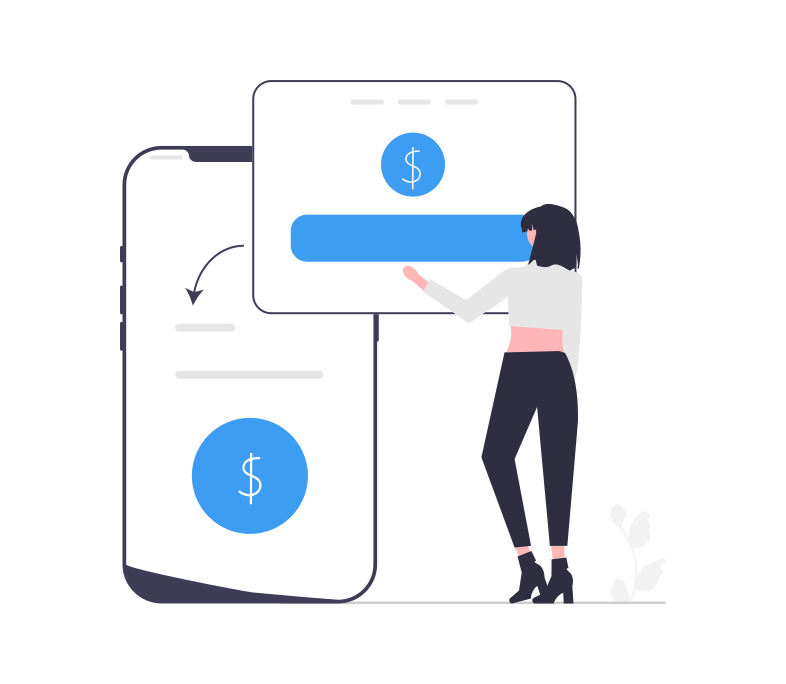
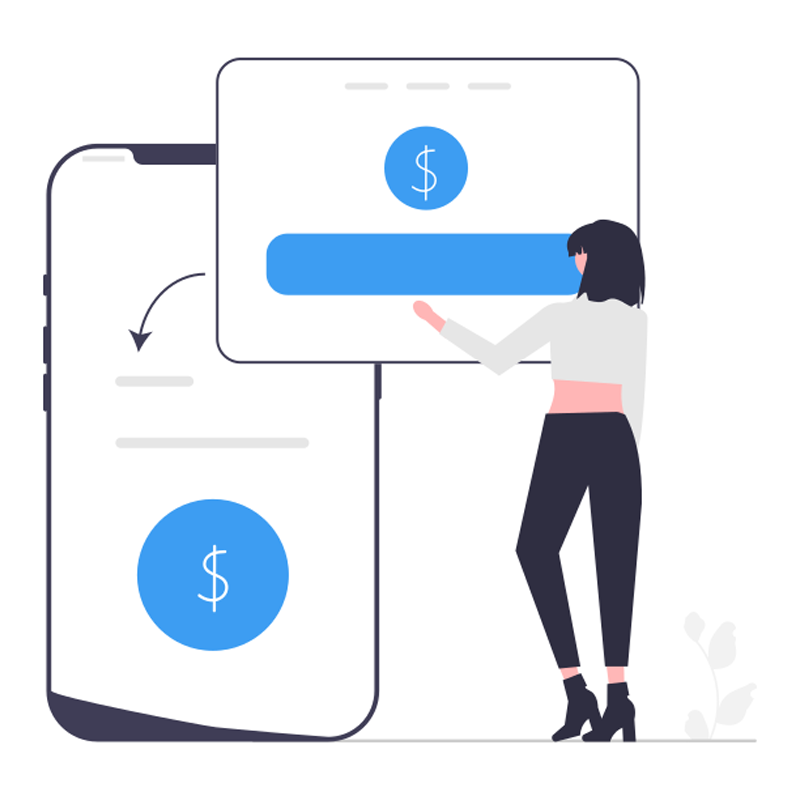
detalles mas tarjetas a medias

Changed region(s): [[0.0305, 0.0614, 0.9466, 0.9518], [0.3664, 0.5219, 0.4275, 0.5526], [0.7023, 0.1228, 0.7328, 0.1535]]

diff --git a/index.html b/index.html
@@ -40,80 +40,89 @@
 
     <!----- Grid con texto e imagen ----->
 
-    <div class="container-fluid">
-      <div class="row justify-content-md-center">
-        <div class="col col-lg-2">
+    <div class="container d-flex justify-content-center">
+      <div class="row">
+        <div class="col-12 col-lg-2">
           <h1 class="titulo">Bienvenidos<br />al <span>Home Banking</span></h1>
         </div>
-        <div class="col-md-10">
-          <img src="Imagenes/portada1.gif" alt="Home" />
+        <div class="col-12 col-lg-10">
+          <img
+            class="portada"
+            src="Imagenes/portada1.gif"
+            alt="Home"
+            width="126%"
+          />
         </div>
       </div>
     </div>
 
-    <!---- Grid con botones ---->
+    <!---- Grid con cards ---->
 
-    <div class="container justify-content-center">
-      <div class="row justify-content-center">
-        <div class="col-sm-6 border">
-          <div class="row justify-content-center">
-            <div class="col-4 col-sm-6 border">
-              <h2>Finanzas</h2>
+    <div class="container d-flex justify-content-center">
+      <div class="row">
+        <div class="col-12 col-lg-6 p-2">
+          <article class="card h-100">
+            <div class="card-body">
+              <h3 class="card-title">Prestamos a tasa fija</h3>
+              <a href="#">Mas info.</a>
+              <div class="d-flex">
+                <img
+                  src="Imagenes/finance.png"
+                  alt="Finanzas"
+                  height="30%"
+                  width="30%"
+                />
+              </div>
             </div>
-            <div class="col-4 col-sm-6 border">
-              <img
-                src="Imagenes/finance.png"
-                alt="finance"
-                height="30%"
-                width="auto"
-              />
-            </div>
-          </div>
+          </article>
         </div>
-        <div class="col-sm-6">
-          <div class="row justify-content-center">
-            <div class="col-4 col-sm-6 border"><h2>Saca tu tarjeta</h2></div>
-            <div class="col-4 col-sm-6 border">
-              <img
-                src="Imagenes/card.png"
-                alt="card"
-                height="30%"
-                width="auto"
-              />
+        <div class="col-12 col-lg-6 p-2">
+          <article class="card h-100">
+            <div class="card-body">
+              <h3 class="card-title">Pedi hoy tu tarjeta</h3>
+              <a href="#">Pedir hoy</a>
+              <div class="d-flex">
+                <img
+                  src="Imagenes/card.png"
+                  alt="tarjeta"
+                  height="30%"
+                  width="30%"
+                />
+              </div>
             </div>
-          </div>
+          </article>
         </div>
-      </div>
-      <div class="row justify-content-center">
-        <div class="col-sm-6 border">
-          <div class="row justify-content-center">
-            <div class="col-4 col-sm-6 border">
-              <h2>En todos tus dispositivos</h2>
+        <div class="col-12 col-lg-6 p-2">
+          <article class="card h-100">
+            <div class="card-body">
+              <h3 class="card-title">Soporte las 24hs.</h3>
+              <a href="#">Consultar</a>
+              <div class="d-flex">
+                <img
+                  src="Imagenes/support.png"
+                  alt="soporte"
+                  height="30%"
+                  width="30%"
+                />
+              </div>
             </div>
-            <div class="col-4 col-sm-6 border">
-              <img
-                src="Imagenes/app.png"
-                alt="finance"
-                height="30%"
-                width="auto"
-              />
-            </div>
-          </div>
+          </article>
         </div>
-        <div class="col-sm-6">
-          <div class="row justify-content-center">
-            <div class="col-4 col-sm-6 border">
-              <h2>Con la maxima seguridad</h2>
+        <div class="col-12 col-lg-6 p-2">
+          <article class="card h-100">
+            <div class="card-body">
+              <h3 class="card-title">Con la mejor seguridad</h3>
+              <a href="#">Ver terminos</a>
+              <div class="d-flex">
+                <img
+                  src="Imagenes/security.png"
+                  alt="security"
+                  height="30%"
+                  width="30%"
+                />
+              </div>
             </div>
-            <div class="col-4 col-sm-6 border">
-              <img
-                src="Imagenes/security.png"
-                alt="card"
-                height="30%"
-                width="auto"
-              />
-            </div>
-          </div>
+          </article>
         </div>
       </div>
     </div>

diff --git a/index.css b/index.css
@@ -95,9 +95,8 @@ button:hover {
 
 /* Grid de imagen con texto */
 
-.container-fluid {
-  margin-top: 30px;
-  margin-left: 200px;
+.container {
+  margin-top: 2%;
   position: relative;
   width: 80%;
 }
@@ -125,7 +124,7 @@ button:hover {
   }
 }
 
-.container {
+.container-relative-bottom {
   margin-top: 10%;
 }
 
